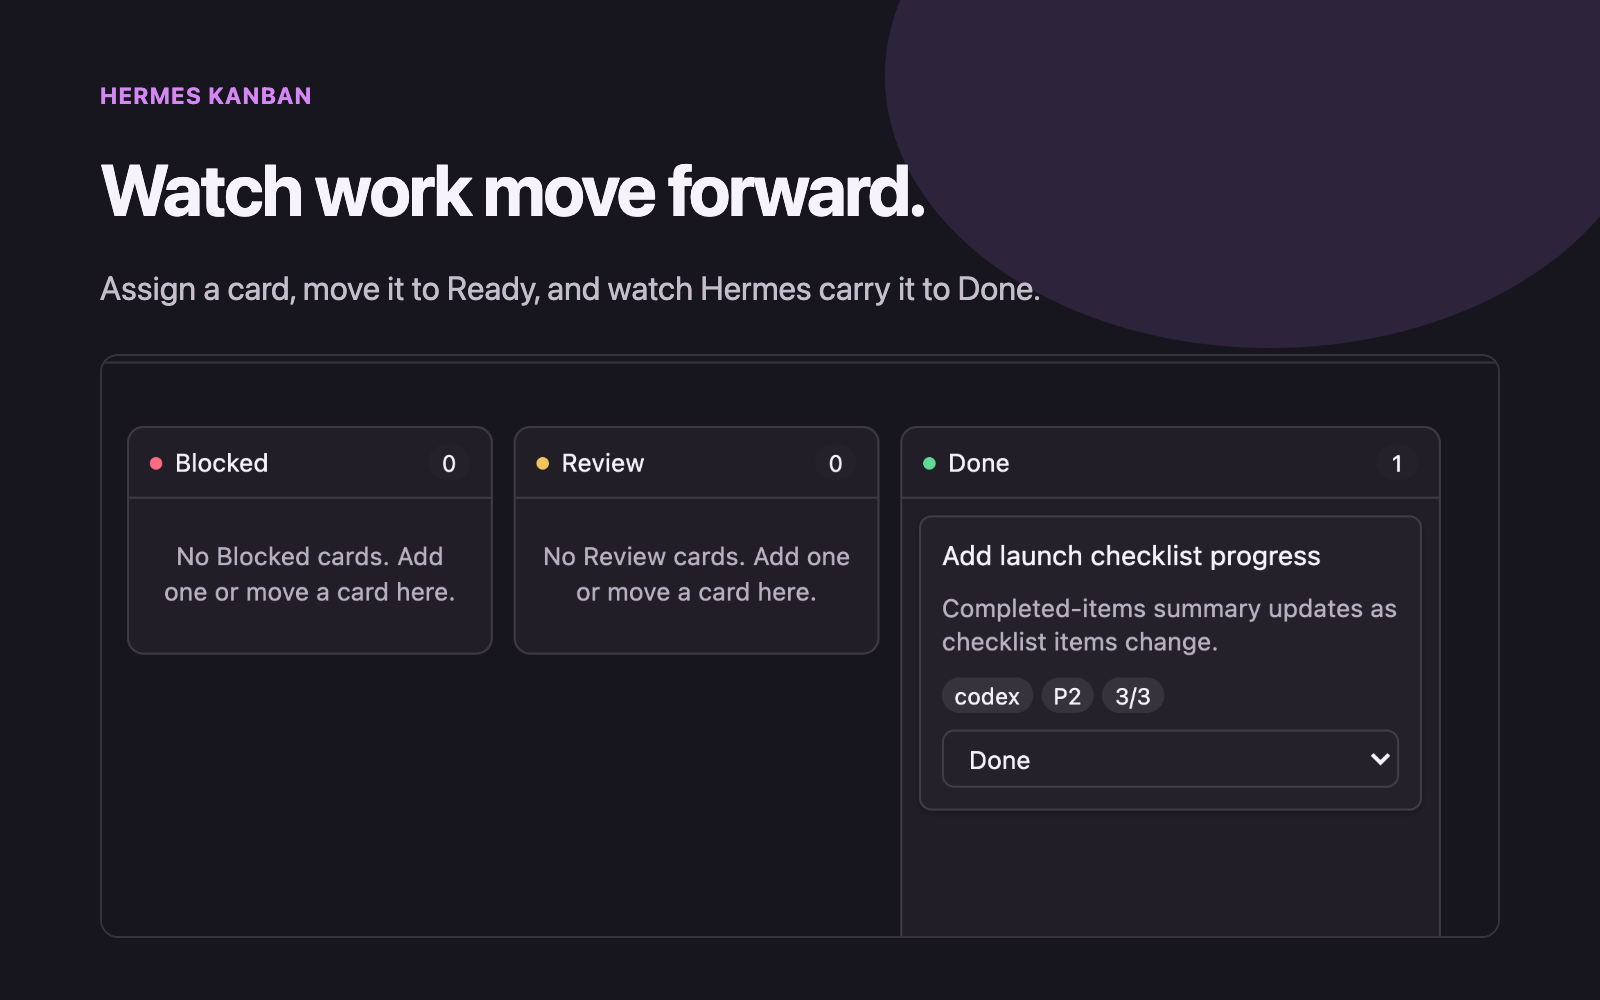
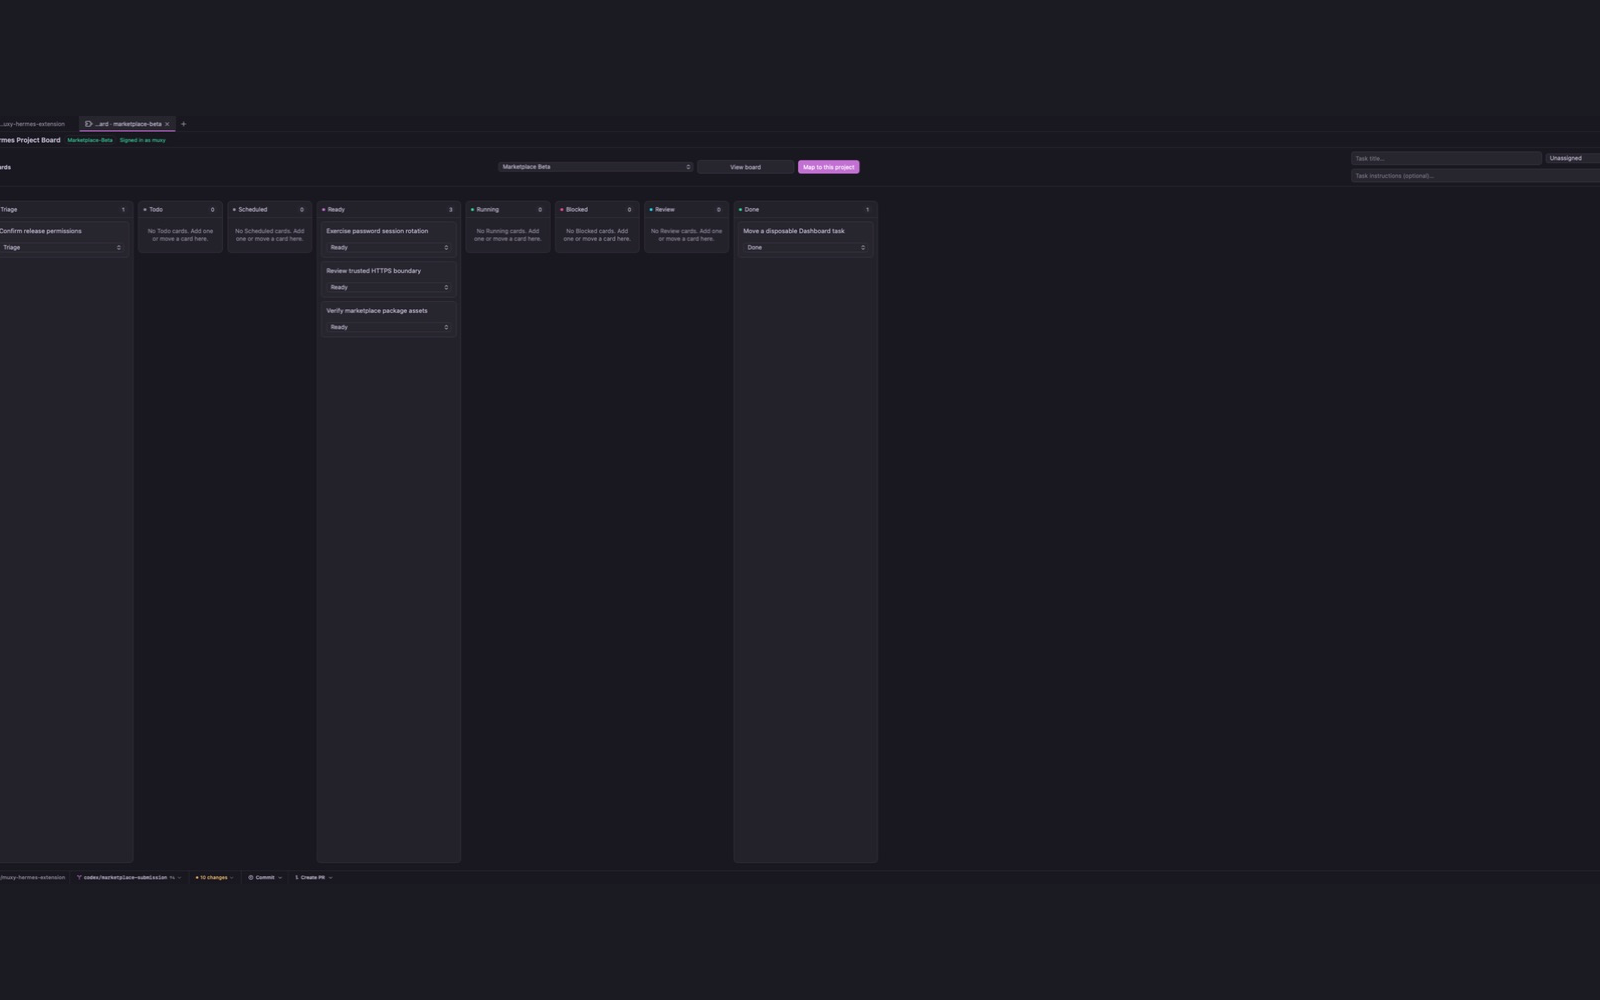
feat(quick-260823-cdh): qualify per-project board mappings
- Freeze project-read permission and mapping docs\n- Extend fixture evidence and replace the sanitized board capture

diff --git a/test/qualification-lab.test.js b/test/qualification-lab.test.js
@@ -35,6 +35,7 @@ test("lab uses task-local secrets, OS-assigned loopback ports, real health check
   assert.match(runner, /"-L", `127\.0\.0\.1:\$\{localPort\}:hermes:9119`/);
   assert.match(runner, /ssh_internal_health/);
   assert.match(runner, /kanban", "boards", "create", "marketplace-beta"/);
+  assert.match(runner, /kanban", "boards", "create", "marketplace-secondary"/);
   assert.match(runner, /"hermes", "cron", "create"/);
   assert.match(runner, /operations\.jobs\.length, 12/);
   assert.match(runner, /kanban\.updateStatus\(task\.id, "done"\)/);
@@ -97,6 +98,7 @@ test("manual native observations require the exact Muxy tuple, claims, categorie
     "muxy_webkit_https", "native_dark", "native_light", "pane_narrow", "pane_wide",
     "real_marketplace_screenshots", "reduced_motion", "remote_secret_absent",
     "remote_workspace_path_absent", "scale_default", "scale_large",
+    "per_project_board_mapping",
   ];
   const state = { taskId: "fixture", challenge: "challenge" };
   const screenshot = (path) => ({ path, sha256: "a".repeat(64), width: 1600, height: 1000 });

diff --git a/README.md b/README.md
@@ -18,14 +18,14 @@ Open the Hermes panel to start a request and follow the response and tool activi
 
 ## Kanban boards
 
-Run **Hermes: Open Project Board** to open one of the boards available in your Hermes Dashboard. Hermes stores these cards and dispatches their work; they are not a second view of requests from the Agent panel.
+Run **Hermes: Open Project Board** to open one of the boards available in your Hermes Dashboard. Each Muxy project can explicitly map one board. Hermes stores these cards and dispatches their work; they are not a second view of requests from the Agent panel.
 
 - Add a card with instructions and assign it to the Hermes profile that should handle it
 - Move an assigned card to Ready; Hermes starts a worker, links its run to the card, and moves the card to Running
 - Keep the board open to watch the card move to Review, Blocked, or Done as the work progresses
 - Move cards yourself when needed; Muxy asks for confirmation before moving one to Blocked or Done
 
-The board refreshes automatically, and you can still refresh it by hand. Closing the board does not stop Kanban work in Hermes; when you reopen it, you will see the latest state. Requests started in the Agent panel stay separate and are not turned into cards.
+Use **View board** to inspect any available board without changing your project. Use **Map to this project** only when the open board should become that project's default. The board selector stays available while a board is open. Worktrees of the same Muxy project share the mapping, while other projects retain their own. The board refreshes automatically, and you can still refresh it by hand. Closing the board does not stop Kanban work in Hermes; when you reopen it, you will see the latest state. Requests started in the Agent panel stay separate and are not turned into cards.
 
 ![Hermes Project Board showing the Launchpad Checklist card in Done](./assets/readme/project-board.png)
 
@@ -83,13 +83,14 @@ Your password is used only to sign in and is then cleared; it is never saved. Li
 | Command execution | Uses `/usr/bin/curl` to talk to the Hermes Dashboard. Request bodies and cookies are passed through stdin, not exposed in command arguments. |
 | Panel control | Opens and updates the Hermes side panel. |
 | Tab control | Opens the Hermes project board. |
-| Isolated storage | Saves the Dashboard address, login provider, selected board, and Hermes session cookies for this extension only. |
+| Project read access | Reads the active Muxy project's stable ID and display name to select its board mapping. It does not read project paths, worktree paths, workspace files, or project contents. |
+| Isolated storage | Saves the Dashboard address, login provider, authenticated session cookies, and each project's mapped board for this extension only. |
 
 The extension cannot read or write your workspace files. It does not request Docker, SSH, background-process, or telemetry access.
 
 ## Privacy
 
-No analytics or telemetry is collected. The extension stores only the Dashboard address, selected login provider, selected board, and the Hermes session cookies needed to restore your sign-in.
+No analytics or telemetry is collected. The extension stores one global Dashboard address, selected login provider, and session cookies needed to restore your sign-in. Separately, each explicit board mapping stores the Muxy stable project ID, Dashboard URL, and board slug. It never reads or stores project paths, worktree paths, workspace files, or board credentials in a mapping.
 
 Prompts and controls you submit are sent directly to the Hermes Dashboard you configured. The extension does not send them anywhere else.
 
